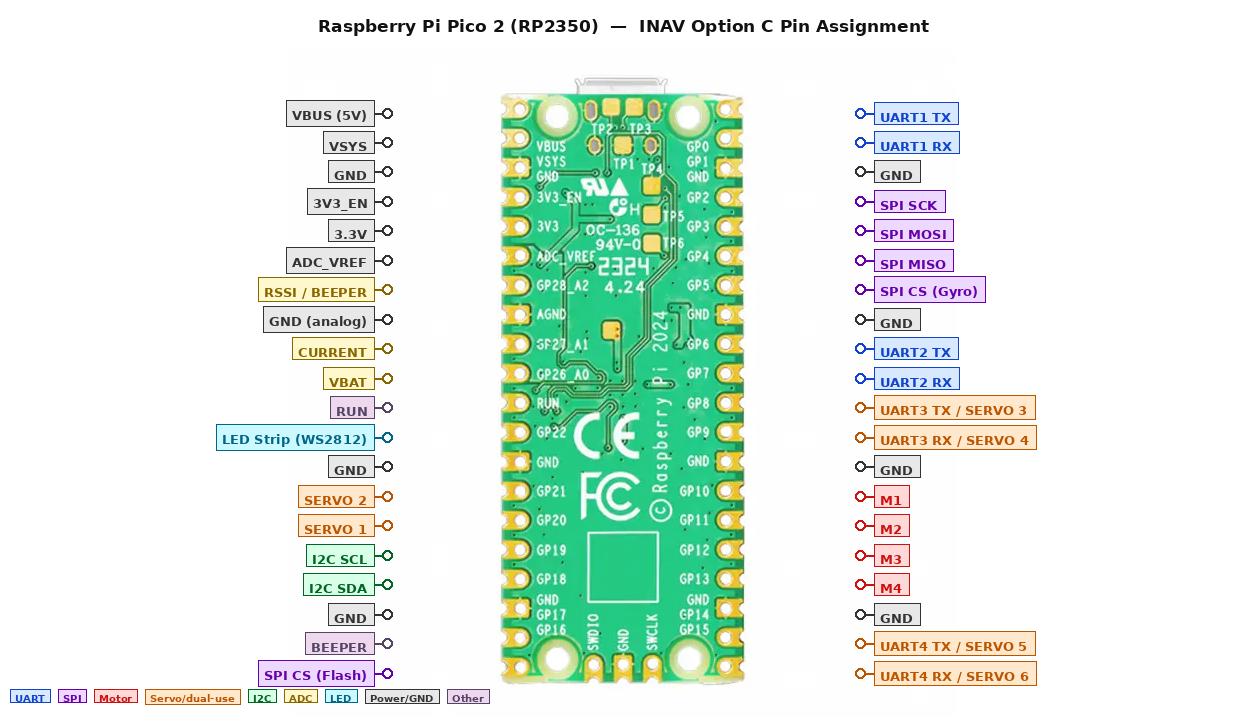
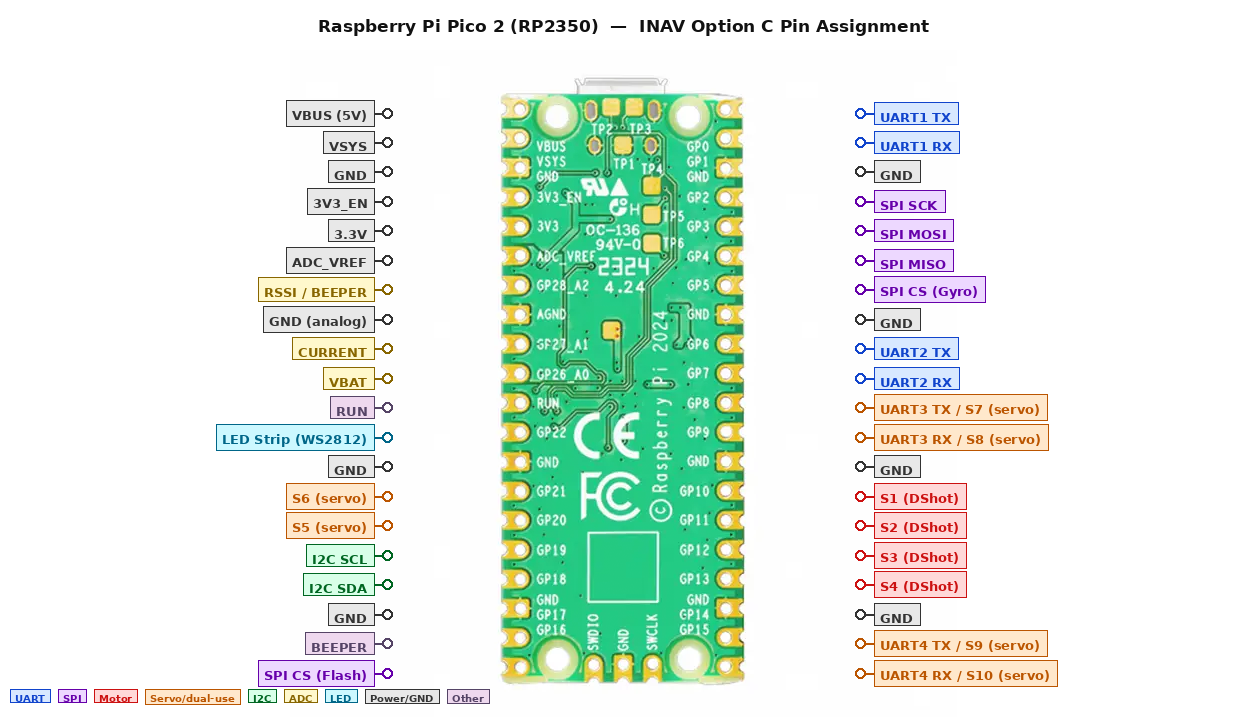
RP2350: relabel outputs as S1-S10 in pinout diagram
Motor outputs S1-S4 (DShot capable); servo outputs S5-S10.
Dedicated servos: S5=GP20, S6=GP21.
Dual-use UART3/servo: S7=GP8, S8=GP9.
Dual-use UART4/servo: S9=GP14, S10=GP15.

diff --git a/claude/projects/active/port-inav-rp2350/generate_pinout.py b/claude/projects/active/port-inav-rp2350/generate_pinout.py
@@ -53,8 +53,8 @@ LEFT_PINS = [
     ('RUN',                   'other'),
     ('LED Strip (WS2812)',    'led'),    # GP22 PIO2 SM0
     ('GND',                   'power'),
-    ('SERVO 2',               'servo'),  # GP21 PWM slice 10B
-    ('SERVO 1',               'servo'),  # GP20 PWM slice 10A
+    ('S6 (servo)',             'servo'),  # GP21 PWM slice 10B
+    ('S5 (servo)',             'servo'),  # GP20 PWM slice 10A
     ('I2C SCL',               'i2c'),    # GP19 I2C1
     ('I2C SDA',               'i2c'),    # GP18 I2C1
     ('GND',                   'power'),
@@ -74,16 +74,16 @@ RIGHT_PINS = [
     ('GND',                   'power'),
     ('UART2 TX',              'uart'),   # GP6  UART1 TX – CRSF/SBUS (F11=UART_AUX)
     ('UART2 RX',              'uart'),   # GP7  UART1 RX
-    ('UART3 TX / SERVO 3',   'servo'),  # GP8  PIO1 SM0 / PWM4A dual-use
-    ('UART3 RX / SERVO 4',   'servo'),  # GP9  PIO1 SM1 / PWM4B dual-use
+    ('UART3 TX / S7 (servo)', 'servo'),  # GP8  PIO1 SM0 / PWM4A dual-use
+    ('UART3 RX / S8 (servo)', 'servo'),  # GP9  PIO1 SM1 / PWM4B dual-use
     ('GND',                   'power'),
-    ('M1',                    'motor'),  # GP10 PIO0 SM0 DShot  ← BF MOTOR1
-    ('M2',                    'motor'),  # GP11 PIO0 SM1 DShot  ← BF MOTOR2
-    ('M3',                    'motor'),  # GP12 PIO0 SM2 DShot  ← BF MOTOR3
-    ('M4',                    'motor'),  # GP13 PIO0 SM3 DShot  ← BF MOTOR4
+    ('S1 (DShot)',                    'motor'),  # GP10 PIO0 SM0 DShot  ← BF MOTOR1
+    ('S2 (DShot)',                    'motor'),  # GP11 PIO0 SM1 DShot  ← BF MOTOR2
+    ('S3 (DShot)',                    'motor'),  # GP12 PIO0 SM2 DShot  ← BF MOTOR3
+    ('S4 (DShot)',                    'motor'),  # GP13 PIO0 SM3 DShot  ← BF MOTOR4
     ('GND',                   'power'),
-    ('UART4 TX / SERVO 5',   'servo'),  # GP14 PIO1 SM2 / PWM7A dual-use
-    ('UART4 RX / SERVO 6',   'servo'),  # GP15 PIO1 SM3 / PWM7B dual-use
+    ('UART4 TX / S9 (servo)', 'servo'),  # GP14 PIO1 SM2 / PWM7A dual-use
+    ('UART4 RX / S10 (servo)', 'servo'),  # GP15 PIO1 SM3 / PWM7B dual-use
 ]
 
 # ── Board geometry calibration (original 667×667 image coordinates) ───────────
